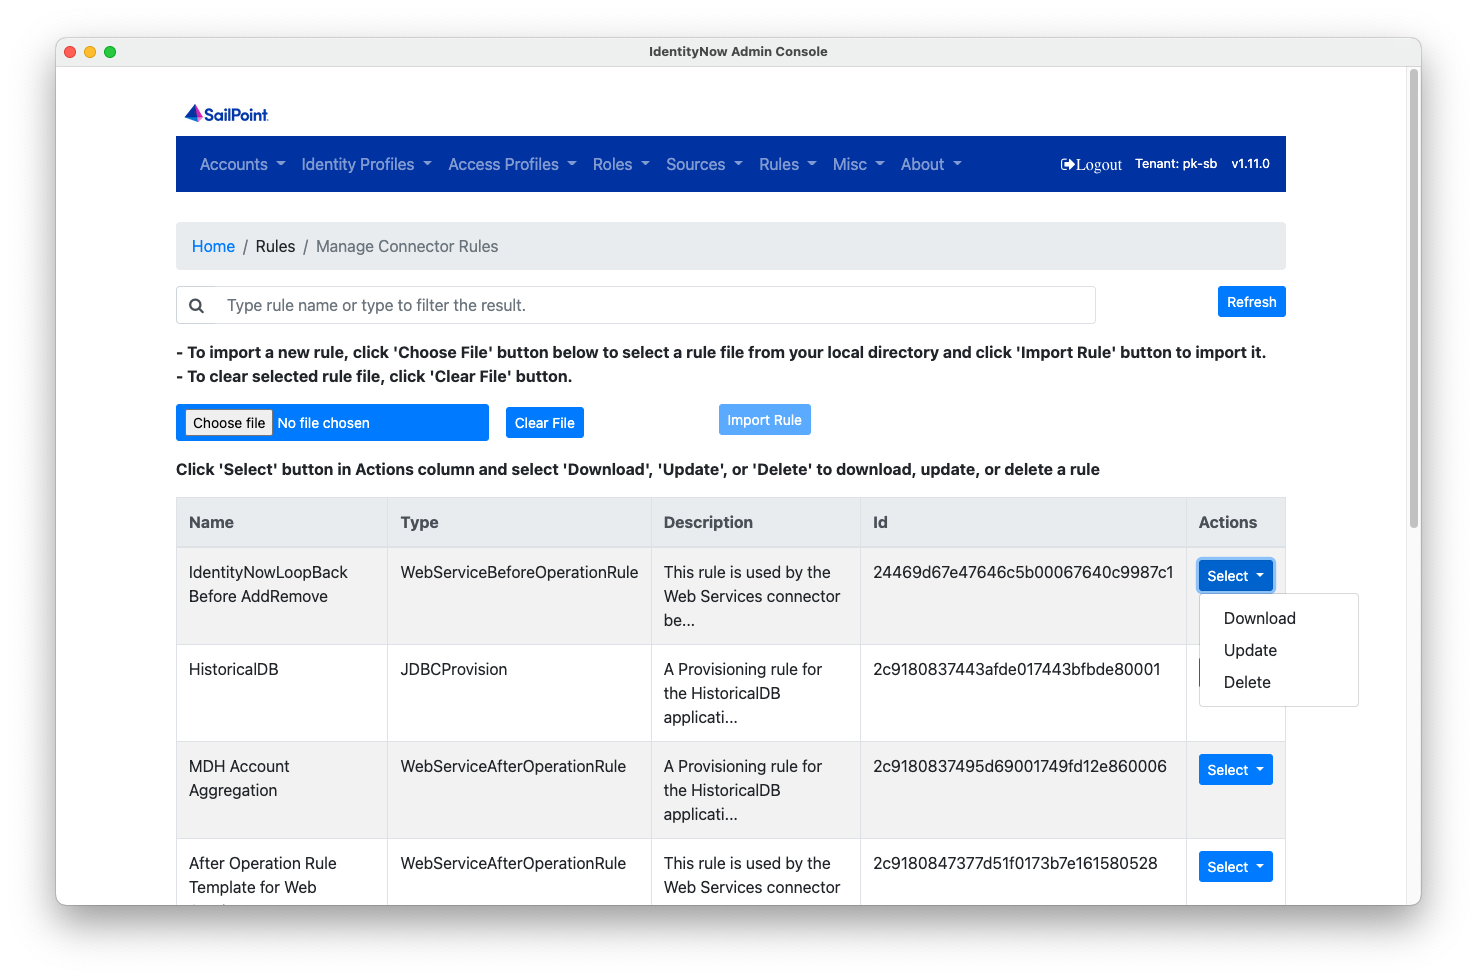
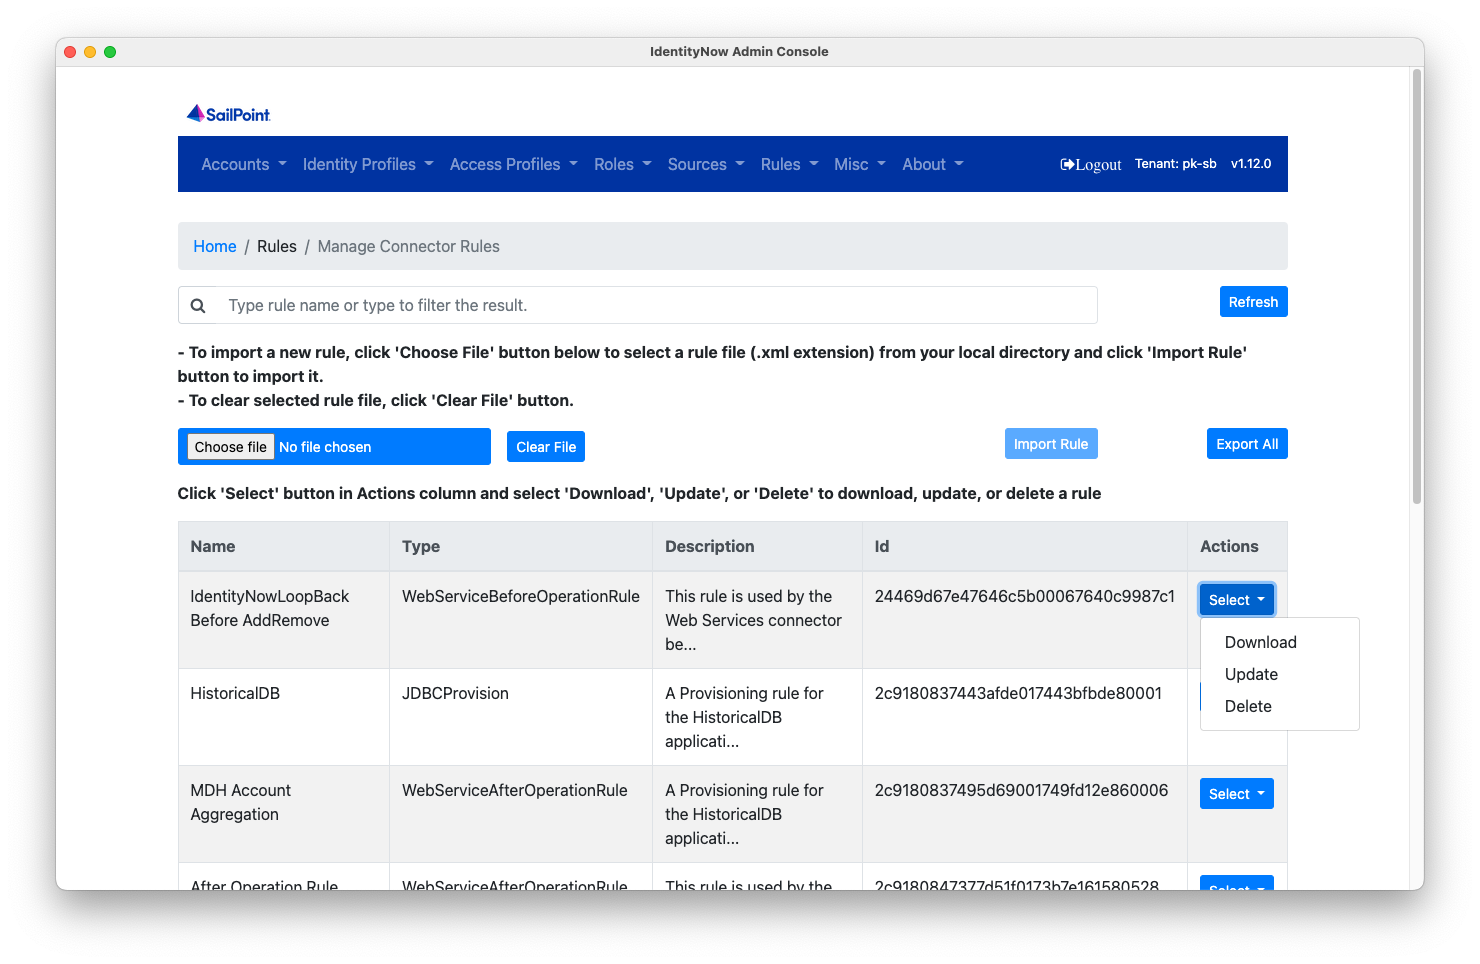
Update ReadMe

diff --git a/README.md b/README.md
@@ -52,8 +52,8 @@ We are looking for (list is not exhaustive)
     * Reset Source (Accounts / Entitlements / Both)
     * Source Info (Internal Name / ID / Count / Export All)
 * Rules
-    * Manage Cloud Rules (Download)
-    * Manage Connector Rules (Add / Update / Delete / Download)
+    * Manage Cloud Rules (Download / Export All)
+    * Manage Connector Rules (Add / Update / Delete / Download / Export All)
 * Misc
     * Check and Set Org Time
     * Manage PAT (See Permission / Delete Token)
